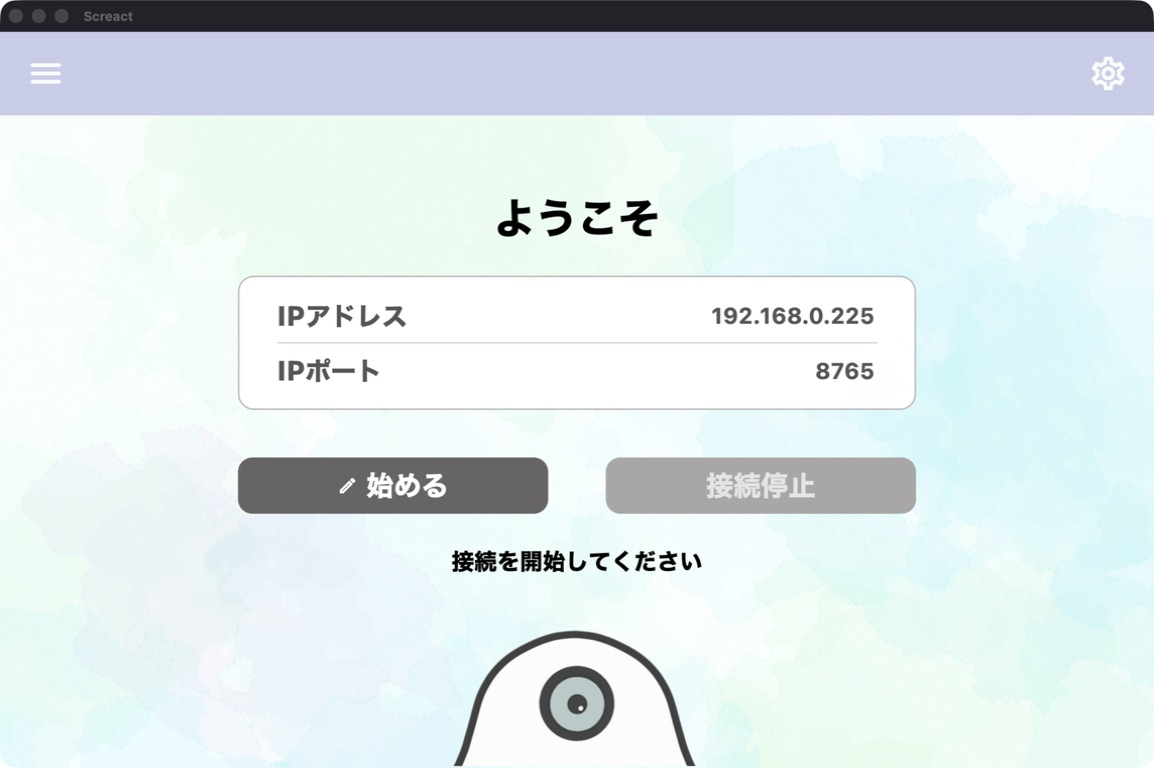
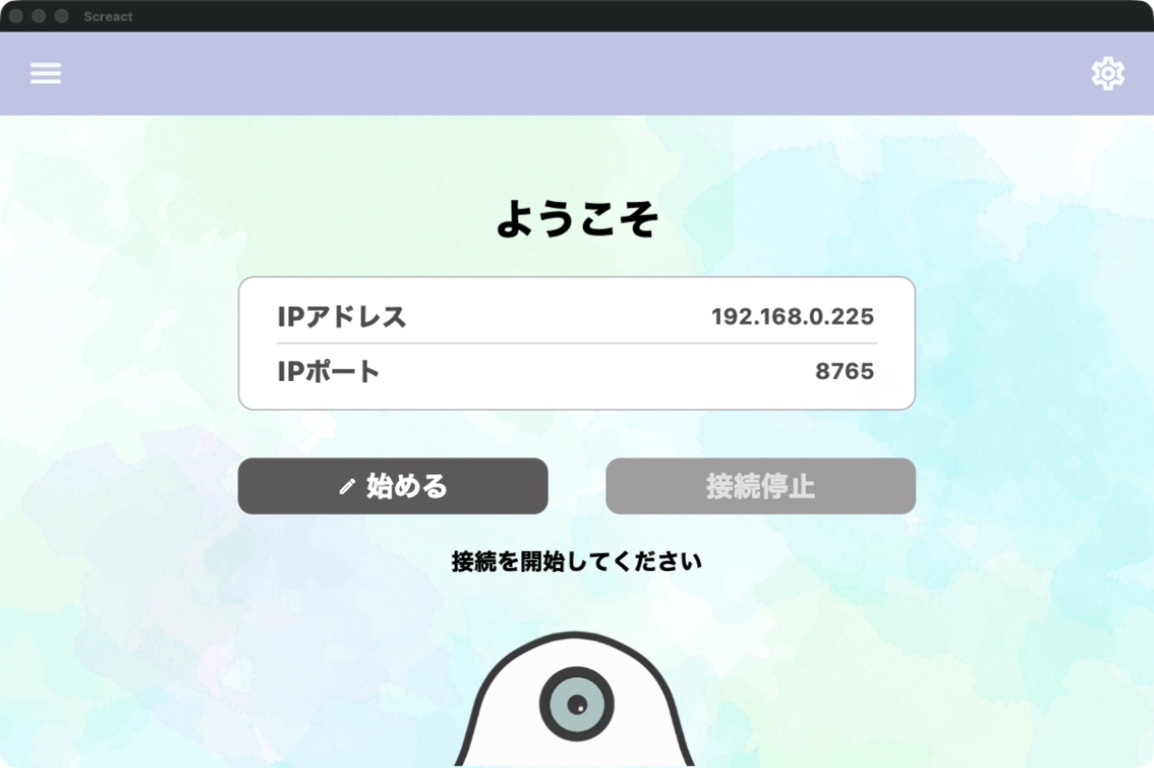
docs: refresh desktop UI screenshots (#17)

diff --git a/README.md b/README.md
@@ -62,13 +62,13 @@ Androidスマホ、PC、映したい画面があれば利用できます。PCが
 
 校正後は透明・クリック透過のネイティブオーバーレイへ自動移行します。旧来の白いアプリ内キャンバスではなく、ブラウザ、PDF、スライドなど、普段使っているアプリの上へそのまま描画できます。
 
-### 5. 起動からScreactらしい体験
+### 5. Androidとデスクトップで統一した本番UI
 
-Android版は、Screactのロゴアニメーションを使ったスプラッシュと、片目のゴーストを描いたアダプティブ／従来形式のアプリアイコンを備えています。接続前から操作中まで、プロダクトの世界観を統一しています。
+デスクトップ版は、水彩背景、ラベンダーのヘッダー、片目のゴーストを共通モチーフに、接続・位置合わせ・オーバーレイ・設定の4画面を整理しています。Android版も同じ世界観で構成し、Screactのロゴアニメーションを使ったスプラッシュと、ゴーストを描いたアダプティブ／従来形式のアプリアイコンを備えています。
 
 ## 画面遷移
 
-実際の通信やジェスチャー操作で画面を進めるのではなく、現行アプリが持つ各UI状態を直接表示して撮影しました。デスクトップはmacOS版Screactのアプリウィンドウ、AndroidはPixel 8 Pro上の本番Compose UIです。Androidの左側には、PC画面へ向けた背面カメラの実映像を表示しています。
+[最新UI PR #13](https://github.com/NxTEND-THE-HACK/2026-Team-35/pull/13)の実装を撮影元にし、通信やジェスチャー操作で画面を進めず、各UI状態を直接表示して撮影しました。デスクトップは同PRのmacOS版Flutter UI、AndroidはPixel 8 Pro上の本番Compose UIです。Androidの左側には、PC画面へ向けた背面カメラの実映像を表示しています。
 
 <table>
   <tr>
@@ -124,7 +124,7 @@ Android版は、Screactのロゴアニメーションを使ったスプラッシ
     <th>5. 操作</th>
     <td>
       <img src="./docs/assets/readme/desktop/05-overlay-panel.jpg" alt="デスクトップオーバーレイ操作画面">
-      <br><sub>透明オーバーレイの再表示・インク消去</sub>
+      <br><sub>校正後は透明オーバーレイへ自動移行。解除後は再表示・インク消去</sub>
     </td>
     <td>
       <img src="./docs/assets/readme/android/android-tracking.jpg" alt="Android手検出中画面">
